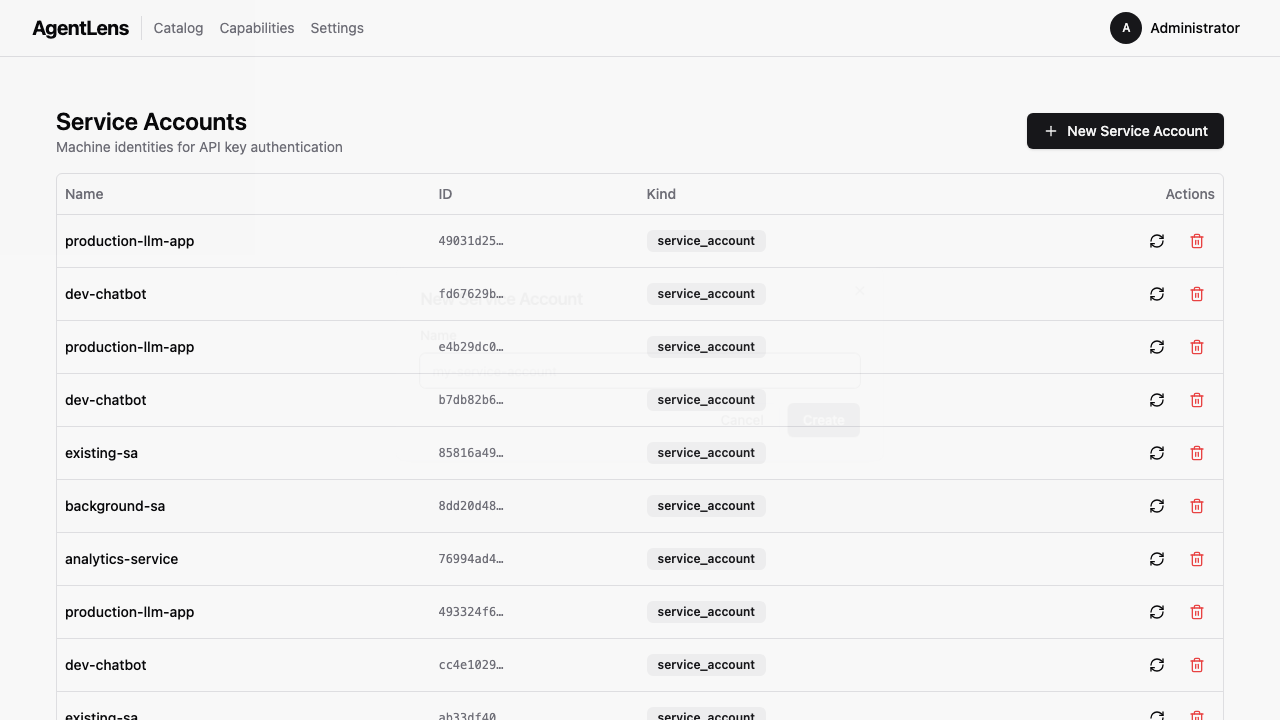
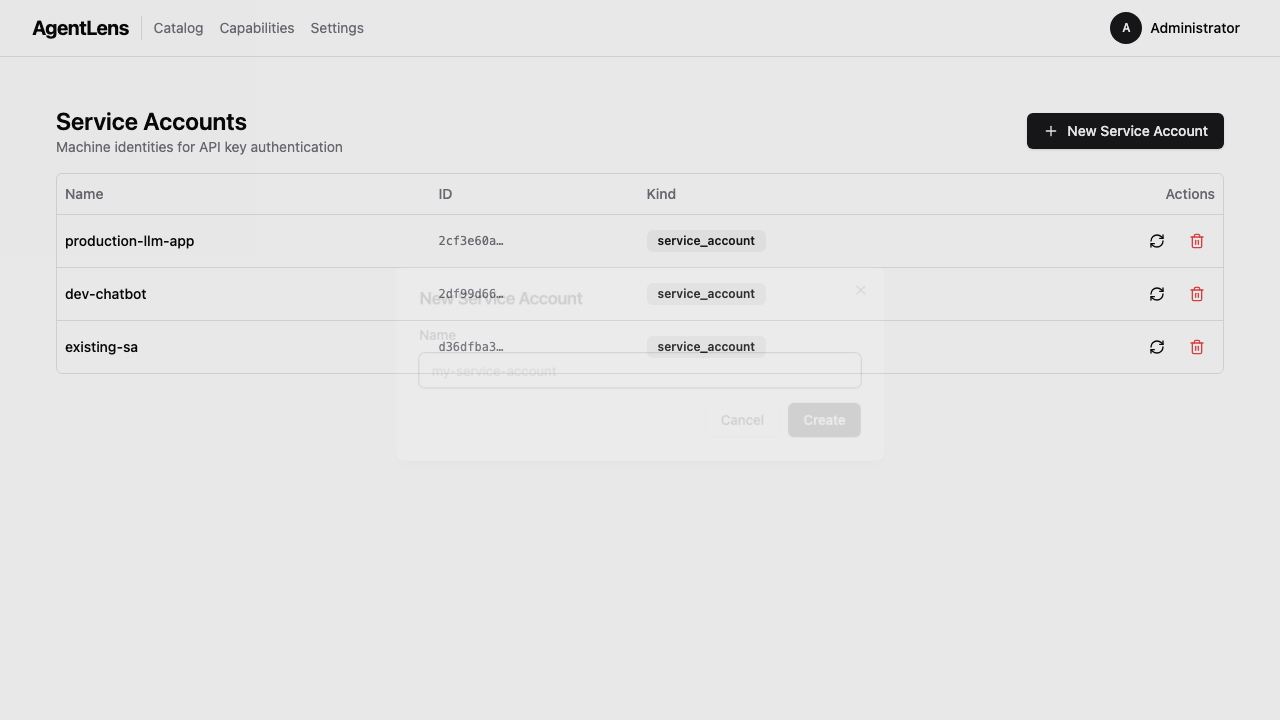
docs(mcp): update end-user-guide with MCP admin pages + screenshots
Rewrites the MCP section of docs/end-user-guide.md with:

Service Accounts:
- Overview of the 4 MCP discovery tools with descriptions table
- Step-by-step: navigate, create, copy one-time secret, rotate, delete
- Secret format and curl example for /api/mcp usage
- Screenshots: list page, create dialog, one-time secret banner

Pending Federated Identities:
- Explains JIT-off default and pending identity lifecycle
- Navigate, approve, reject flows with UI references
- Screenshot: empty pending identities page

All four screenshots captured via e2e/tests/service-accounts.spec.ts
Playwright spec (4/4 passing) against a clean server instance.

diff --git a/docs/end-user-guide.md b/docs/end-user-guide.md
@@ -1017,68 +1017,108 @@ curl http://localhost:8080/api/v1/projects \
 
 ## MCP Discovery Server
 
-AgentLens includes a built-in **MCP Discovery Server** that exposes the catalog to LLM clients (Claude.ai, Cursor, VS Code + Copilot) via the Model Context Protocol (MCP). Administrators must enable it in configuration before use.
+AgentLens includes a built-in **MCP Discovery Server** that lets LLM clients (Claude.ai, Cursor, VS Code + Copilot, backend apps) query the agent catalog using the [Model Context Protocol](https://modelcontextprotocol.io).
 
-> **Requires:** `mcp_server.enabled=true` in config (default: `false`). See [MCP Quickstart](mcp-quickstart.md).
+When enabled, AgentLens exposes four discovery tools at `/api/mcp`:
+
+| Tool | What it does |
+| --- | --- |
+| `agent_search` | Free-text search across agents and their capabilities |
+| `agent_get` | Retrieve full details for a specific agent by ID |
+| `capabilities_list` | List capabilities (tools, skills, resources) offered by an agent |
+| `agent_card` | Fetch the raw A2A or MCP protocol card for an agent |
+
+**Enabling MCP:** set `mcp_server.enabled=true` in config (default: `false`). See the [MCP Quickstart](mcp-quickstart.md) for a step-by-step guide.
+
+Two authentication paths are supported:
+
+- **Service-account API keys** — for backend LLM apps (no user interaction)
+- **OAuth 2.1 via Dex** — for IDE clients and Claude.ai Custom Connectors
 
 ---
 
 ## Service Accounts
 
-Service accounts are machine identities used by backend LLM apps to authenticate against the MCP endpoint via API keys. Administrators with the `service_accounts:write` permission can create, rotate, and delete service accounts.
+Service accounts are machine identities used by backend LLM apps to authenticate against `/api/mcp` using API keys. Only administrators with `service_accounts:write` permission can create or manage them.
 
-### Navigate to Service Accounts
+### Navigating to Service Accounts
 
 Go to **Admin → Service Accounts** (URL: `/admin/service-accounts`).
 
-![Service accounts list page showing a table with Name, ID, Kind columns and action buttons for rotate and delete](images/service-accounts-list.png)
-*The Service Accounts list. Each row shows the account name, a truncated ID, and action buttons.*
+![Service accounts list page showing two accounts — production-llm-app and dev-chatbot — with rotate and delete action buttons](images/service-accounts-list.png)
 
-### Create a service account
+*The Service Accounts page lists all machine identities. Each row shows the account name, a truncated ID, the `service_account` kind badge, and action buttons for rotating the secret (↻) and deleting the account (🗑).*
 
-1. Click **New Service Account**.
-2. Enter a descriptive name (e.g. `my-llm-app`).
+---
+
+### Creating a service account
+
+1. Click **+ New Service Account** in the top-right corner.
+2. Enter a descriptive name in the dialog that appears (e.g. `production-llm-app`).
 3. Click **Create**.
 
-![Create service account dialog with a Name input field](images/service-accounts-create.png)
-*The create dialog. The name field is the only required input.*
+![New Service Account dialog with a Name input field, Cancel and Create buttons](images/service-accounts-create.png)
 
-A **one-time secret** banner appears immediately after creation. Copy it now — it is never shown again.
+*The create dialog. Name is the only required field. Use a meaningful name — it cannot be changed after creation.*
 
-![One-time secret display banner with copy and show/hide toggle buttons](images/service-accounts-secret.png)
-*The one-time secret banner. Use the copy button or the eye icon to reveal the full value.*
+---
 
-The secret format is: `agentlens_sk_<client_id>.<raw_secret>`
+### Copying the one-time secret
 
-Pass it to your LLM app as the `Authorization: Bearer` header value when calling `/api/mcp`.
+Immediately after creation, a yellow **One-Time Secret** banner appears at the top of the page.
 
-### Rotate a secret
+![One-Time Secret banner showing masked characters with eye and copy icon buttons, and a Dismiss button below](images/service-accounts-secret.png)
 
-Click the **↻** (rotate) icon on any service account row. A new one-time secret is returned immediately; the old secret is revoked atomically.
+*The one-time secret is displayed once and never stored in plaintext. Use the **eye** icon to reveal the value, the **copy** icon to copy it to the clipboard, then click **Dismiss**.*
 
-> **Note:** After rotation, any cached bcrypt result expires within 10 seconds (ADR-015). Plan a brief overlap window in production.
+The secret is formatted as:
 
-### Delete a service account
+```text
+agentlens_sk_<client_id>.<raw_secret>
+```
 
-Click the **🗑** (delete) icon. All active API keys are invalidated before the account is removed.
+Store it in a secrets manager or environment variable (e.g. `AGENTLENS_API_KEY`). Use it as the `Authorization: Bearer` value when calling `/api/mcp`:
+
+```bash
+curl -X POST https://agentlens.example.com/api/mcp \
+  -H "Authorization: Bearer agentlens_sk_abc123.yoursecret" \
+  -H "Content-Type: application/json" \
+  -H "Origin: https://your-app.example.com" \
+  -d '{"jsonrpc":"2.0","id":"1","method":"initialize","params":{}}'
+```
+
+---
+
+### Rotating a secret
+
+Click the **↻** icon on any row. AgentLens atomically revokes the old secret and issues a new one-time secret, which is displayed in the same yellow banner.
+
+> **Note:** The previous secret becomes invalid immediately. Allow up to 10 seconds for any cached authentication to expire before the rotation takes full effect.
+
+### Deleting a service account
+
+Click the **🗑** icon. All active API keys for that account are invalidated before the account is permanently removed. This action cannot be undone.
 
 ---
 
 ## Pending Federated Identities
 
-When Dex federation is enabled and JIT provisioning is disabled (default), first-time federated logins create **pending identity** records that require operator approval before the user can access MCP tools.
+When Dex federation is enabled and JIT provisioning is off (the default), the first login from a federated user creates a **pending identity** record. An administrator must approve it before that user can call MCP tools.
 
-### Navigate to Pending Identities
+### Navigating to Pending Identities
 
 Go to **Admin → External Identities** (URL: `/admin/external-identities`).
 
-![Pending identities page showing a table with Provider, Subject, Email, Status columns and approve/reject action buttons](images/pending-identities.png)
-*The Pending Identities page. Each row shows the federated provider, subject claim, email, and current status.*
+![Pending Identities page showing an empty table with columns Provider, Subject, Email, Status, Actions and a "No pending identities" message](images/pending-identities.png)
 
-### Approve an identity
+*The Pending Identities page. When a federated user attempts to log in for the first time, a row appears here with their provider name, subject claim, email, and pending status. Administrators approve or reject each identity individually.*
 
-Click the **✓** (approve) button. The identity is linked to an AgentLens user and the next login attempt succeeds automatically.
+---
 
-### Reject an identity
+### Approving an identity
 
-Click the **✗** (reject) button. The identity is marked rejected; the user sees an authentication error on subsequent logins.
+Click the **✓** (green check) button on a row. The identity is linked to an AgentLens user account and subsequent logins from that user succeed automatically.
+
+### Rejecting an identity
+
+Click the **✗** (red cross) button. The identity is marked rejected and the user receives an authentication error on subsequent login attempts.
